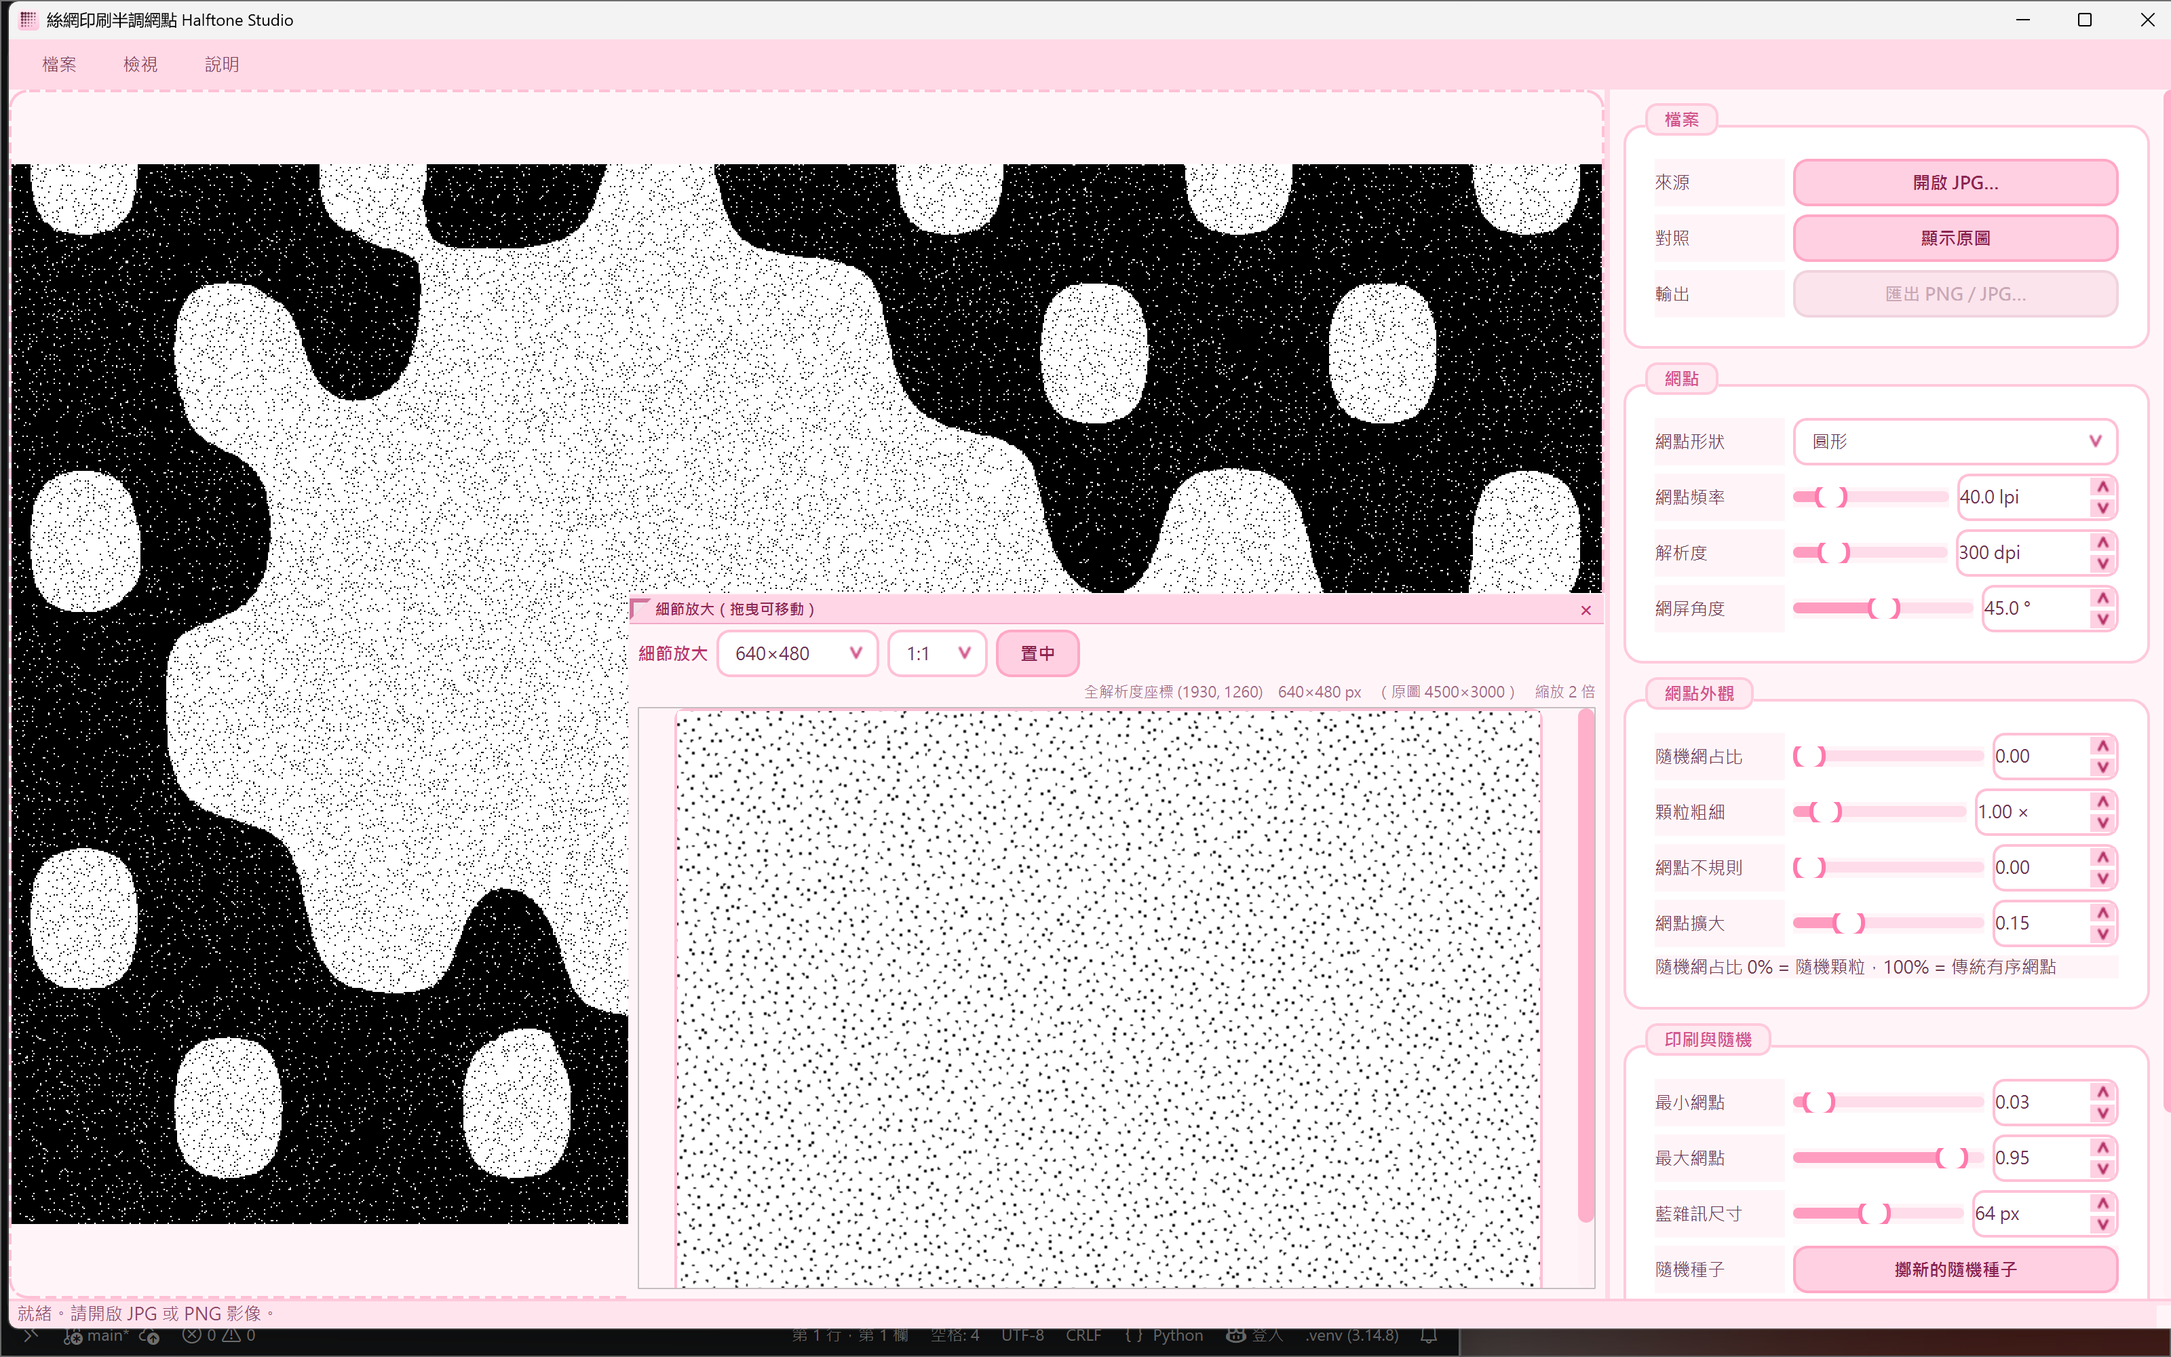
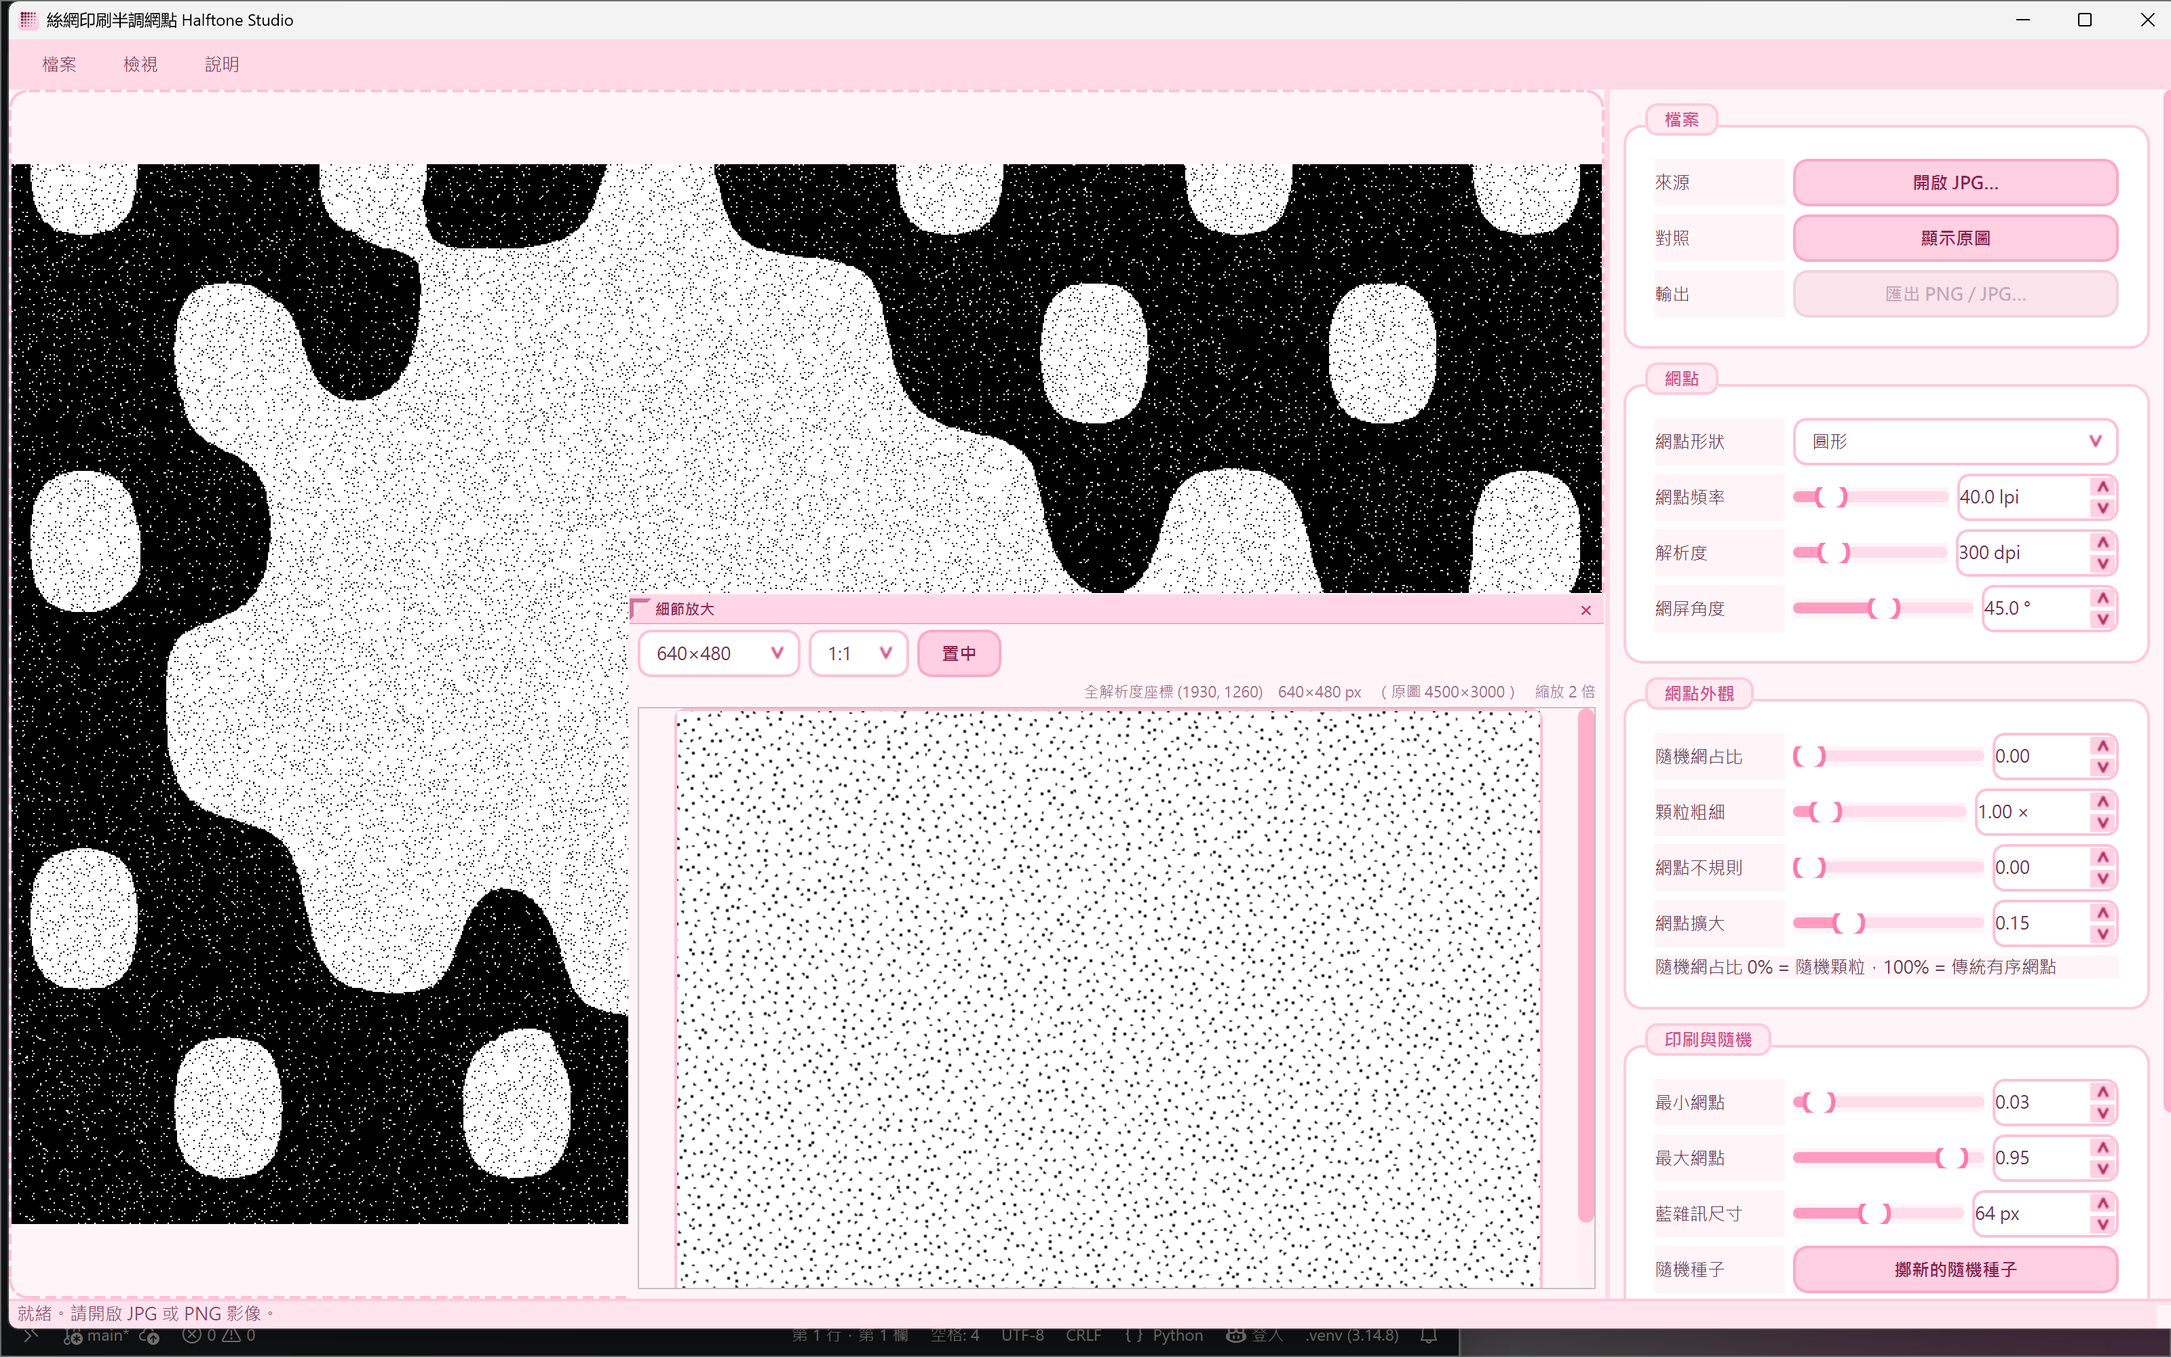
细節視窗位置固定不可拖曳、移除界面说明文字、修正關閉鈕與選單勾選不同步

Changed region(s): [[0.7812, 0.961, 1.0, 1.0], [0.2812, 0.434, 0.5, 0.496]]

diff --git a/tests/check_detail_ui.py b/tests/check_detail_ui.py
@@ -19,7 +19,7 @@ sys.path.insert(0, str(Path(__file__).resolve().parent.parent))
 from PySide6.QtCore import QEvent, QPoint, QPointF, Qt                          # noqa: E402
 from PySide6.QtGui import QImage, QMouseEvent                          # noqa: E402
 from PySide6.QtWidgets import (                                     # noqa: E402
-    QApplication, QPushButton, QScrollArea, QSplitter,
+    QApplication, QLabel, QPushButton, QScrollArea, QSplitter,
 )
 
 from halftone_studio.app import MainWindow                             # noqa: E402
@@ -135,14 +135,31 @@ check("往左上拖曳可放大",
 check("右下角固定（不會超出主視窗右下方）",
       after.right() == right and after.bottom() == bottom)
 
+# 位置不可拖曳：沒有拖曳處理器，也不該有偏移狀態
+check("DetailWindow 不提供拖曳移動功能",
+      not hasattr(dw, "drag_begin") and not hasattr(dw, "drag_move")
+      and not hasattr(dw, "drag_end"),
+      f"（drag_* 方法存在：{[m for m in ('drag_begin', 'drag_move', 'drag_end') if hasattr(dw, m)]}）")
+check("DetailWindow 無拖曳偏移狀態 _offset", not hasattr(dw, "_offset"))
+
+# 產品介面不該出現「位置固定」之類的操作說明文字
+titles = [dw.title.text()] + [w.text() for w in dw.findChildren(QLabel)
+                             if w.text().strip()]
+banned = ("固定", "拖曳可移動", "拖动", "錨定", "無法拖")
+dirty = [(t, b) for t in titles for b in banned if b in t]
+check("介面上沒有操作說明文字", not dirty,
+      f"（發現 {dirty}；標題：{titles[:4]}）")
+
+# 直接對標題列送滑鼠事件，位置不應改變
 pos_before = dw.pos()
-win.eventFilter(dw.title, QMouseEvent(
+dw.title.mousePressEvent(QMouseEvent(
     QEvent.MouseButtonPress, QPointF(40, 10), QPointF(40, 10),
     Qt.LeftButton, Qt.LeftButton, Qt.NoModifier))
-win.eventFilter(dw.title, QMouseEvent(
+dw.title.mouseMoveEvent(QMouseEvent(
     QEvent.MouseMove, QPointF(140, 110), QPointF(140, 110),
     Qt.NoButton, Qt.LeftButton, Qt.NoModifier))
-check("拖曳標題列可移動視窗", dw.pos() != pos_before,
+app.processEvents()
+check("在標題列拖曳不會移動視窗", dw.pos() == pos_before,
       f"（{pos_before.x()},{pos_before.y()} -> "
       f"{dw.pos().x()},{dw.pos().y()}）")
 
@@ -157,32 +174,63 @@ def gap():
     return v_g.x() - d_g.x(), v_g.y() - d_g.y()
 
 
-dw._offset = QPoint(0, 0)
 dw.reanchor()
 app.processEvents()
 g = gap()
-check("無偏移時右下角完全重合（誤差 <=1px）",
+check("右下角完全重合（誤差 <=1px）",
       abs(g[0]) <= 1 and abs(g[1]) <= 1,
       f"（右緣差 {g[0]}px、下緣差 {g[1]}px）")
 
-# 有偏移時應維持該偏移
-off_x, off_y = dw._offset.x(), dw._offset.y()
 for mv in ((80, 60), (-140, 100), (0, -90)):
     win.move(win.pos().x() + mv[0], win.pos().y() + mv[1])
     app.processEvents()
     g = gap()
-    check(f"主視窗移動 {mv} 後維持對齊",
-          abs(g[0] + off_x) <= 2 and abs(g[1] + off_y) <= 2,
-          f"（右緣差 {g[0]}、下緣差 {g[1]}，應為 {-off_x}、{-off_y}）")
+    check(f"主視窗移動 {mv} 後維持對齊", abs(g[0]) <= 2 and abs(g[1]) <= 2,
+          f"（右緣差 {g[0]}、下緣差 {g[1]}，應為 0、0）")
 
 win.resize(1300, 800)
 app.processEvents()
 g = gap()
-check("主視窗縮放後維持對齊",
-      abs(g[0] + off_x) <= 2 and abs(g[1] + off_y) <= 2,
-      f"（右緣差 {g[0]}、下緣差 {g[1]}，應為 {-off_x}、{-off_y}）")
+check("主視窗縮放後維持對齊", abs(g[0]) <= 2 and abs(g[1]) <= 2,
+      f"（右緣差 {g[0]}、下緣差 {g[1]}，應為 0、0）")
 win.resize(1500, 940)
 app.processEvents()
+
+print("\n=== 5b2. 連續拖動主視窗，每一步都必須錨住 ===")
+# 模擬真人拖曳視窗標題列：一連串小幅位移，而不是一次到位
+worst = 0
+for i in range(40):
+    win.move(win.pos().x() + 7, win.pos().y() + 5)
+    app.processEvents()
+    g = gap()
+    worst = max(worst, abs(g[0]), abs(g[1]))
+check("連續拖動 40 步全程錨定", worst <= 1,
+      f"（最大偏移 {worst}px）")
+
+# 連續縮放（來回），每一步都要維持
+worst2 = 0
+for i in range(20):
+    w = 1300 + (i % 7) * 30
+    h = 860 + (i % 5) * 24
+    win.resize(w, h)
+    app.processEvents()
+    g = gap()
+    worst2 = max(worst2, abs(g[0]), abs(g[1]))
+check("連續縮放 20 次全程錨定", worst2 <= 1,
+      f"（最大偏移 {worst2}px）")
+win.resize(1500, 940)
+app.processEvents()
+
+# 邊拖主視窗、邊縮放浮窗，兩者交錯
+worst3 = 0
+for i in range(10):
+    win.move(win.pos().x() + 11, win.pos().y() - 7)
+    dw.resize(420 + i * 20, 300 + i * 14)
+    app.processEvents()
+    g = gap()
+    worst3 = max(worst3, abs(g[0]), abs(g[1]))
+check("主視窗移動 + 浮窗縮放交錯時仍錨定", worst3 <= 1,
+      f"（最大偏移 {worst3}px）")
 
 print("\n=== 5c. 不被蓋到後面 / 不超出主視窗 ===")
 check("浮動視窗是主視窗的子視窗（Qt.Tool 才能維持置頂）",
@@ -252,12 +300,31 @@ app.processEvents()
 dw.reanchor()
 app.processEvents()
 
-win._on_detail_close(type("E", (), {"accept": lambda s: None})())
+win._on_detail_close()
 check("關閉鈕可隱藏視窗", not dw.isVisible())
-check("選單勾選同步取消", not win.act_detail.isChecked())
+check("關閉後選單勾選同步取消", not win.act_detail.isChecked())
 win.act_detail.setChecked(True)
 app.processEvents()
-check("選單可重新叫回視窗", dw.isVisible())
+check("選單點一次即可重新叫回視窗", dw.isVisible(),
+      f"（勾選狀態 {win.act_detail.isChecked()}）")
+
+print("\n=== 5d. 關閉鈕與選單雙向同步 ===")
+# 直接按鈕（走真實訊號路徑），確認選單狀態同步
+close_btn = [b for b in dw.findChildren(QPushButton)
+             if b.toolTip().startswith("關閉")]
+check("找得到關閉鈕", bool(close_btn))
+if close_btn:
+    close_btn[0].click()
+    app.processEvents()
+    check("按 × 後視窗隱藏", not dw.isVisible())
+    check("按 × 後選單勾選同步取消", not win.act_detail.isChecked())
+    # 關閉 -> 選單點一次 -> 必須直接開啟
+    win.act_detail.setChecked(True)
+    app.processEvents()
+    check("選單點一次即恢復（不需點兩次）", dw.isVisible())
+    check("恢復後右下角仍角對角對齊",
+          all(abs(x) <= 1 for x in gap()),
+          f"（右緣差 {gap()[0]}、下緣差 {gap()[1]}）")
 
 # 內容不應把視窗撐大（否則關閉鈕會被擠出畫面）
 dw.resize(640, 470)

diff --git a/halftone_studio/detail.py b/halftone_studio/detail.py
@@ -45,12 +45,9 @@ class DetailPane(QWidget):
         root.setSpacing(4)
 
         # ── 工具列 ──────────────────────────────────────
+        # 不放標題文字：浮動視窗的標題列已經有「細節放大」了
         bar = QHBoxLayout()
         bar.setSpacing(6)
-
-        title = QLabel("細節放大")
-        title.setStyleSheet("font-weight: bold; color: #b8396f;")
-        bar.addWidget(title)
 
         self.cmb_size = QComboBox()
         for w, h in CROP_SIZES:
@@ -245,9 +242,14 @@ class _ResizeGrip(QWidget):
 class DetailWindow(QWidget):
     """浮動的細節放大視窗。
 
-    做成獨立的無邊框視窗而非底部面板，才能疊在主預覽之上，
-    不佔用固定版面；使用者可隨時拖到任何位置或關閉。
+    做成獨立的無邊框視窗而非底部面板，才能疊在主預覽之上、不佔版面。
+
+    位置是**固定的**：右下角恆常錨定在主預覽區的右下角，不可拖曳移動。
+    使用者仍可調整大小（往左上拉），但位置永遠由錨點決定，
+    尺寸也永遠不會超出主視窗。
     """
+
+    close_requested = Signal()
 
     def __init__(self, pane: DetailPane,
                  parent: QWidget | None = None) -> None:
@@ -259,14 +261,12 @@ class DetailWindow(QWidget):
         self.setMinimumSize(320, 240)
         self.pane = pane
         self._target: QWidget | None = None
-        self._offset = QPoint(0, 0)
-        self._drag_from: tuple | None = None
 
         outer = QVBoxLayout(self)
         outer.setContentsMargins(1, 1, 1, 1)
         outer.setSpacing(0)
 
-        # ── 標題列：左上角控制點 + 可拖曳區 + 關閉鈕 ──
+        # ── 標題列：左上角控制點 + 關閉鈕 ──
         bar = QWidget()
         bar.setFixedHeight(22)
         bar.setStyleSheet(
@@ -276,7 +276,7 @@ class DetailWindow(QWidget):
         bl.setSpacing(0)
         bl.addWidget(_ResizeGrip(bar))
 
-        self.title = QLabel(" 細節放大（拖曳可移動）")
+        self.title = QLabel(" 細節放大")
         self.title.setStyleSheet(
             "color: #8c2a55; font-size: 11px; font-weight: bold;"
             "background: transparent;")
@@ -293,7 +293,9 @@ class DetailWindow(QWidget):
             " color: #b8396f; font-size: 15px; font-weight: bold;"
             " padding: 0; }"
             "QPushButton:hover { background: #ff7fb5; color: white; }")
-        btn_close.clicked.connect(self.hide)
+        # 不可直接呼叫 hide()：選單的勾選狀態要一併取消，
+        # 由主視窗統一處理
+        btn_close.clicked.connect(self.close_requested.emit)
         bl.addWidget(btn_close)
 
         outer.addWidget(bar)
@@ -302,8 +304,7 @@ class DetailWindow(QWidget):
 
     # ── 位置 ────────────────────────────────────────────
     # 浮動視窗的右下角恆常錨定在主預覽區的右下角，角對角嚴格對齊
-    # （MARGIN = 0）。使用者仍可拖曳移動，移動量會記成相對錨點的
-    # 偏移，主視窗移動或縮放時依此偏移重新定位。
+    # （MARGIN = 0）。位置是固定的，不可拖曳移動。
     MARGIN = 0
 
     def _fit_to_parent(self) -> None:
@@ -356,7 +357,10 @@ class DetailWindow(QWidget):
         return QPoint(x, y)
 
     def reanchor(self) -> None:
-        """依目前目標重新定位，保持右下角對齊與使用者的拖曳偏移。"""
+        """依目前目標重新定位，右下角嚴格角對角對齊。
+
+        位置完全由錨點決定，沒有任何可拖曳的偏移量。
+        """
         if getattr(self, "_busy_anchor", False):
             return
         t = getattr(self, "_target", None)
@@ -370,9 +374,7 @@ class DetailWindow(QWidget):
             # 超出主視窗而找不回來。
             self._fit_to_parent()
             g = self._anchor_global()
-            pos = self._clamp_inside(g.x() + self._offset.x(),
-                                     g.y() + self._offset.y())
-            self.move(pos)
+            self.move(self._clamp_inside(g.x(), g.y()))
         finally:
             self._busy_anchor = False
         # 主視窗被點選或重繪後，浮動視窗可能被蓋到後面，這裡補一次置前
@@ -382,23 +384,3 @@ class DetailWindow(QWidget):
         super().resizeEvent(event)
         # 使用者把視窗拉大超出主視窗時，立刻夾回範圍內
         self.reanchor()
-
-    def drag_begin(self, pos) -> None:
-        p = pos.toPoint() if hasattr(pos, "toPoint") else pos
-        self._drag_from = (p, self.geometry())
-
-    def drag_move(self, pos) -> None:
-        if self._drag_from is None:
-            return
-        origin, geo = self._drag_from
-        cur = pos.toPoint() if hasattr(pos, "toPoint") else pos
-        d = cur - origin
-        nx, ny = geo.x() + d.x(), geo.y() + d.y()
-
-        # 記成相對錨點的偏移，主視窗移動後才不會被拉回原位
-        anchor = self._anchor_global()
-        self._offset = QPoint(nx - anchor.x(), ny - anchor.y())
-        self.move(nx, ny)
-
-    def drag_end(self) -> None:
-        self._drag_from = None

diff --git a/halftone_studio/app.py b/halftone_studio/app.py
@@ -342,9 +342,8 @@ class MainWindow(QMainWindow):
         self.view.crop_clicked.connect(self.detail.move_crop)
 
         self.detail_win = DetailWindow(self.detail, parent=self)
-        self.detail_win.title.installEventFilter(self)
+        self.detail_win.close_requested.connect(self._on_detail_close)
         self.view.installEventFilter(self)
-        self.detail_win.closeEvent = self._on_detail_close
 
         top = QWidget()
         tl = QVBoxLayout(top)
@@ -753,14 +752,18 @@ class MainWindow(QMainWindow):
         self._export_fmt = fmt
         self.export_ctrl.start(self._full_gray, params, path)
 
-    def _on_detail_close(self, event) -> None:  # noqa: N802
-        """關閉鈕只隱藏視窗，不銷毀 —— 使用者再次點按即可復原。"""
+    def _on_detail_close(self) -> None:
+        """關閉鈕：隱藏視窗並同步取消選單勾選。
+
+        必須一併取消勾選，否則選單仍顯示為啟用，使用者得點兩次
+        才能重新叫出視窗。
+        """
         self.detail_win.hide()
         if hasattr(self, "act_detail"):
             self.act_detail.blockSignals(True)
             self.act_detail.setChecked(False)
             self.act_detail.blockSignals(False)
-        event.accept()
+        self._set_status("已關閉細節放大視窗（檢視選單可重新開啟）")
 
     def eventFilter(self, obj, event) -> bool:  # noqa: N802
         dw = getattr(self, "detail_win", None)
@@ -772,21 +775,6 @@ class MainWindow(QMainWindow):
         if obj is self.view and event.type() == QEvent.Resize:
             dw.reanchor()
             return False
-
-        # 浮動視窗標題列：按左鍵拖曳即可移動
-        if obj is dw.title:
-            et = event.type()
-            if et == QEvent.MouseButtonPress and \
-                    event.button() == Qt.LeftButton:
-                dw.drag_begin(event.globalPosition())
-                return True
-            if et == QEvent.MouseMove and \
-                    (event.buttons() & Qt.LeftButton):
-                dw.drag_move(event.globalPosition())
-                return True
-            if et == QEvent.MouseButtonRelease:
-                dw.drag_end()
-                return True
         return super().eventFilter(obj, event)
 
     def event(self, e) -> bool:  # noqa: N802

diff --git a/README.md b/README.md
@@ -145,12 +145,13 @@ python -m venv .venv
 - 可選取樣尺寸（640×480 / 960×720 / 1400×1050）與放大倍率（1:1 / 2 倍 / 3 倍）
 - **輸出與匯出檔逐像素相符** —— 實測差異 71 / 307200 像素（0.023%），
   差異來自歸一化直方圖的分帶量化，肉眼與製版皆無影響
-- **右下角嚴格角對角錨定**在主預覽區（誤差 0px）：主視窗移動、縮放，
-  或拖曳分隔線改變預覽寬度時都自動跟隨。拖曳過的位置會記成相對
-  錨點的偏移，不會被拉回
-- 左上角有三角控制點，往左上拖曳即可放大（右下角固定）
-- **不會超出主視窗範圍**：拖大時自動夾住，尺寸上限隨主視窗更新
-- 拖曳標題列移動、`×` 關閉；`檢視 → 細節放大視窗`（Ctrl+D）可隨時開關
+- **右下角嚴格角對角錨定**在主預覽區（誤差 0px）。主視窗拖曳移動、
+  縮放，或拖曳分隔線改變預覽寬度時都自動跟隨；
+  連續拖曳 40 步、連續縮放 20 次實測偏移皆為 **0px**
+- 位置固定，不可拖曳移動；左上角控制點可往左上拉大
+  （右下角固定，尺寸永遠不會超出主視窗）
+- 拖曳分隔線改變預覽寬度後仍精確對齊
+- `×` 關閉，`檢視 → 細節放大視窗`（Ctrl+D）開關，兩者狀態同步
 
 網格錨定在「整張原圖」的座標系（`halftone(..., origin=, full_shape=)`），
 所以單獨計算某一區域與整圖計算的結果一致。
